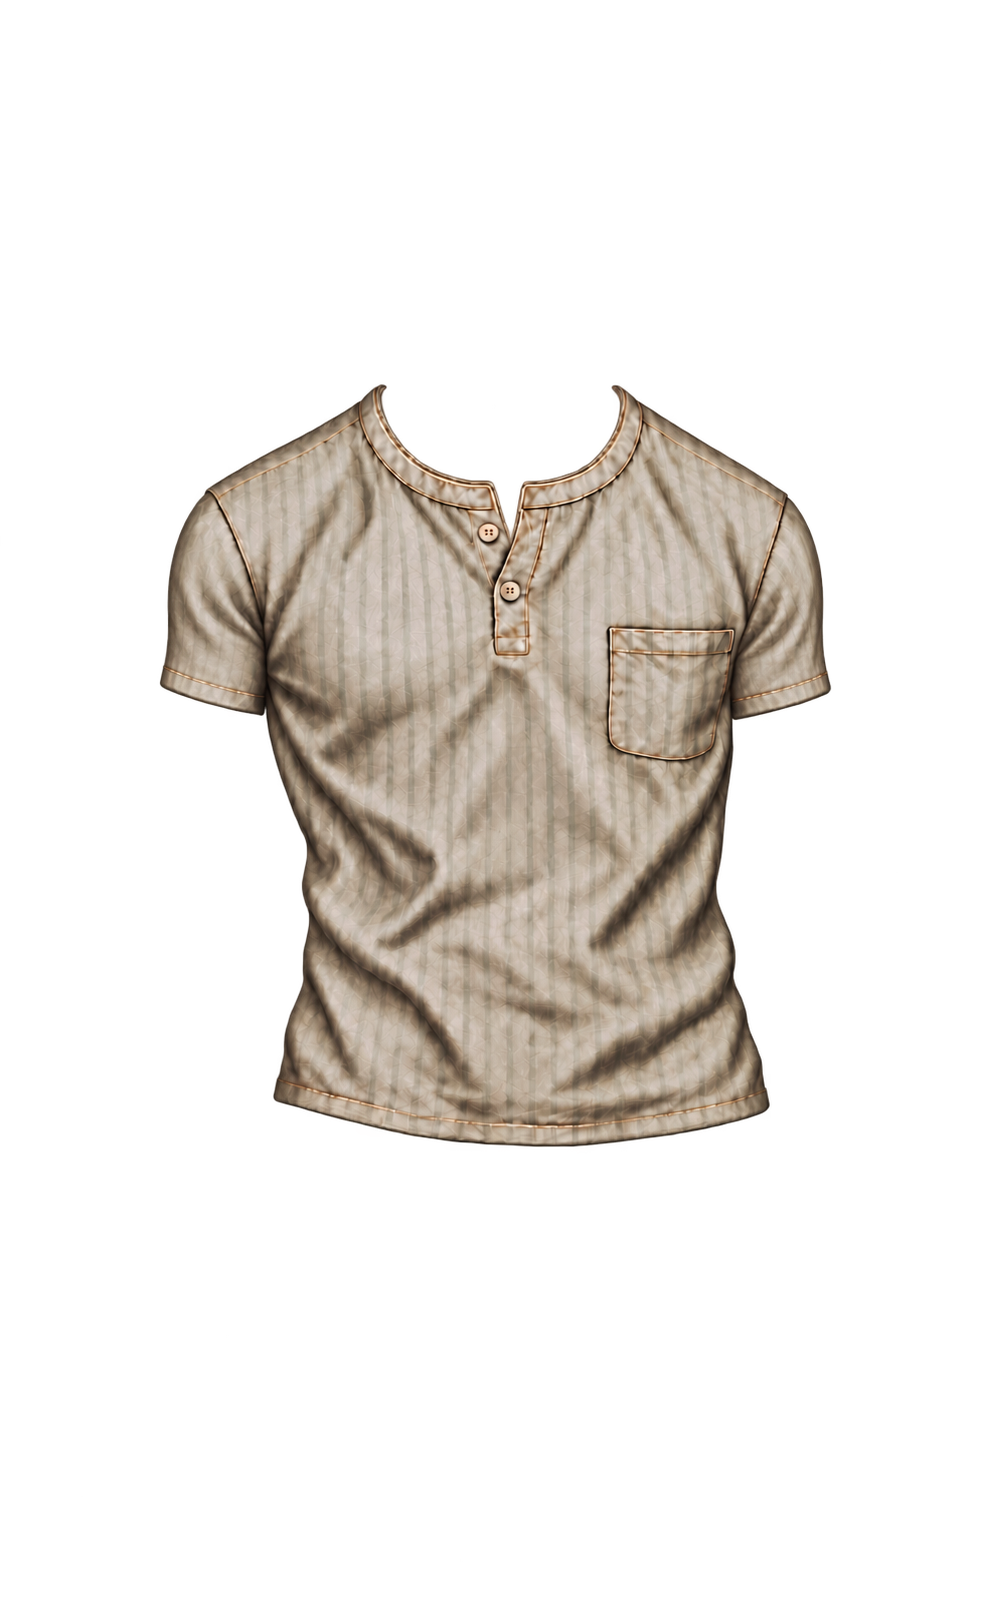
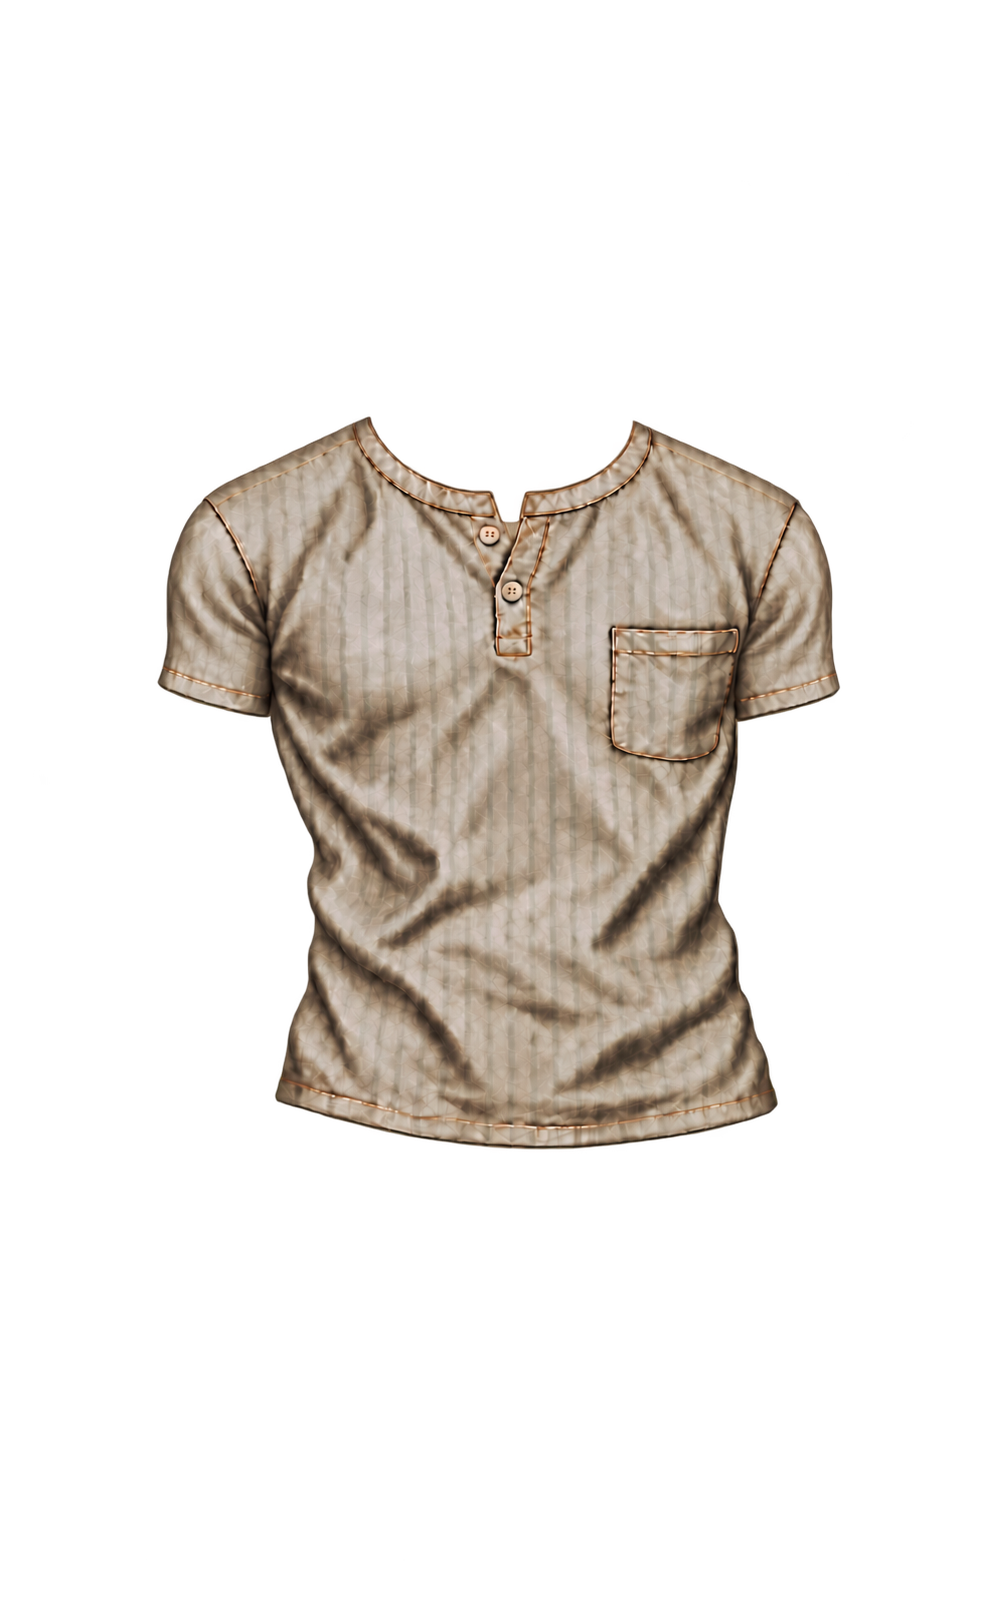
Soften male hospital shirt collar, shoulder seams and underarm joins

diff --git a/art/hospital-shirt.html b/art/hospital-shirt.html
@@ -20,7 +20,7 @@
     .body { display: block; position: absolute; inset: 0; width: 100%; height: 100%; object-fit: contain; }
     /* Only the new garment is registered. Approved bodies remain unchanged. */
     .shirt { position: absolute; object-fit: contain; }
-    [data-gender="male"] .shirt { left: calc(118 / 941 * 100%); top: calc(-18 / 1672 * 100%); width: calc(707.04 / 941 * 100%); height: calc(1153.44 / 1672 * 100%); }
+    [data-gender="male"] .shirt { left: calc(114 / 941 * 100%); top: calc(-22 / 1672 * 100%); width: calc(707.04 / 941 * 100%); height: calc(1153.44 / 1672 * 100%); }
     [data-gender="female"] .shirt { left: calc(165 / 941 * 100%); top: calc(-2 / 1672 * 100%); width: calc(609.768 / 941 * 100%); height: calc(1082.16 / 1672 * 100%); }
     .shadow { position: absolute; bottom: -.5%; left: 14%; width: 72%; height: 4.5%; background: radial-gradient(ellipse,#1b251e55,transparent 73%); }
     .note { font-size: 14px; color: #c9bba6; margin-top: 16px; }
@@ -41,7 +41,7 @@
         <div class="scene"><div class="frame">
           <span class="shadow" aria-hidden="true"></span>
           <img class="body" src="../base_male.png?v=0dec17c1" alt="Затверджена чоловіча модель">
-          <img class="shirt" src="../assets/wardrobe/drafts/hospital_shirt_male.png?v=25a2e973" alt="Чернетка чоловічої лікарняної сорочки">
+          <img class="shirt" src="../assets/wardrobe/drafts/hospital_shirt_male.png?v=3456128d" alt="Чернетка чоловічої лікарняної сорочки">
         </div></div>
       </article>
       <article data-gender="female">

diff --git a/tests/test_game.py b/tests/test_game.py
@@ -800,7 +800,7 @@ class GameTests(unittest.TestCase):
                         return{covered,total};
                     });
                     const collar=[];
-                    if(gender==='female')for(let y=260;y<=290;y+=5)collar.push({y,body:edges(y,0),cloth:edges(y,1)});
+                    for(let y=260;y<=(gender==='male'?280:290);y+=5)collar.push({y,body:edges(y,0),cloth:edges(y,1)});
                     const shoulder=gender==='male'?[[632,310],[654,320],[670,330]]:[[293,320],[304,330],[647,320],[660,330]];
                     const cuffs=gender==='male'?[[242,524],[258,530],[277,539],[700,531],[675,545],[660,551]]:[[279,472],[308,480],[331,490],[668,472],[643,480],[639,490]];
                     return{shoulder:shoulder.map(read),cuffs:cuffs.map(read),contour,armCoverage,collar};

diff --git a/docs/patient-clothing-art.md b/docs/patient-clothing-art.md
@@ -15,7 +15,7 @@
 
 | Варіант | x | y | width | height |
 | --- | --- | --- | --- | --- |
-| Чоловік | 118 | -18 | 707.04 | 1153.44 |
+| Чоловік | 114 | -22 | 707.04 | 1153.44 |
 | Жінка | 165 | -2 | 609.768 | 1082.16 |
 
 Це попереднє припасування на сторінці арту, не нова логіка Paper Doll. Фактичні PNG генерації мають окремі розміри, вказані вище, й ще не є фінальними шарами з нульовим розміщенням на полотні 941×1672. До підключення в ігровий каталог потрібні фіналізація реєстрації полотна та перевірка поєднання з майбутніми штанами, бронею й іншими речами. Повторно масштабувати базові моделі або пересувати колонки для цієї примірки не потрібно.
@@ -32,3 +32,9 @@
 Примірка зберігає пропорції кожного джерела й використовує окрему реєстрацію тканини, наведену вище. Жіночий ресурс після генерації потребував нового рівномірного масштабу 0.648; це повертає його талію до попередньої нижньої точки приблизно y790. Чоловічий масштаб залишається 0.72. URL обох PNG містять версії Git blob для обходу старого кешу.
 
 Браузерний тест читає альфа-пікселі через фактичне DOM-розміщення обох моделей: перевіряє плечі, відкриті руки під манжетами, покриття верхньої частини рук, зовнішній контур нижніх рукавів і відсутність високих виступів жіночої горловини. Крупні плани в масштабі джерела зберігаються для обох статей у режимах «Пацієнт» і «Трип». Ці перевірки доповнюють візуальний огляд; сам факт завантаження PNG не підтверджує правильний крій.
+
+## Чоловіча горловина та переходи під пахвами
+
+У чоловічому PNG знижено й округлено високі кінці коміра, пом'якшено плечові шви та тіні в місцях з'єднання рукавів із тулубом. Накладка містить лише тканину; рука під манжетою залишається частиною незміненого базового PNG. Джерело зберігає розмір 982×1602 і рівномірний масштаб 0.72. Реєстрацію нового джерела уточнено до x114 / y−22: нижня точка сорочки приблизно y805, на 2.52 px вище попередньої. Контури торса в контрольних рядах y600 / y700 відрізняються не більше ніж на 3 px.
+
+Жіночий PNG, його реєстрація, базові моделі та фони збережені без змін. Перевірка горловини тепер охоплює також чоловічі ряди y260–280: непрозора тканина не повинна виступати далеко за перехід шиї до плечей. Природність складок і м'якість швів оцінюються окремо на реальних браузерних крупних планах.
